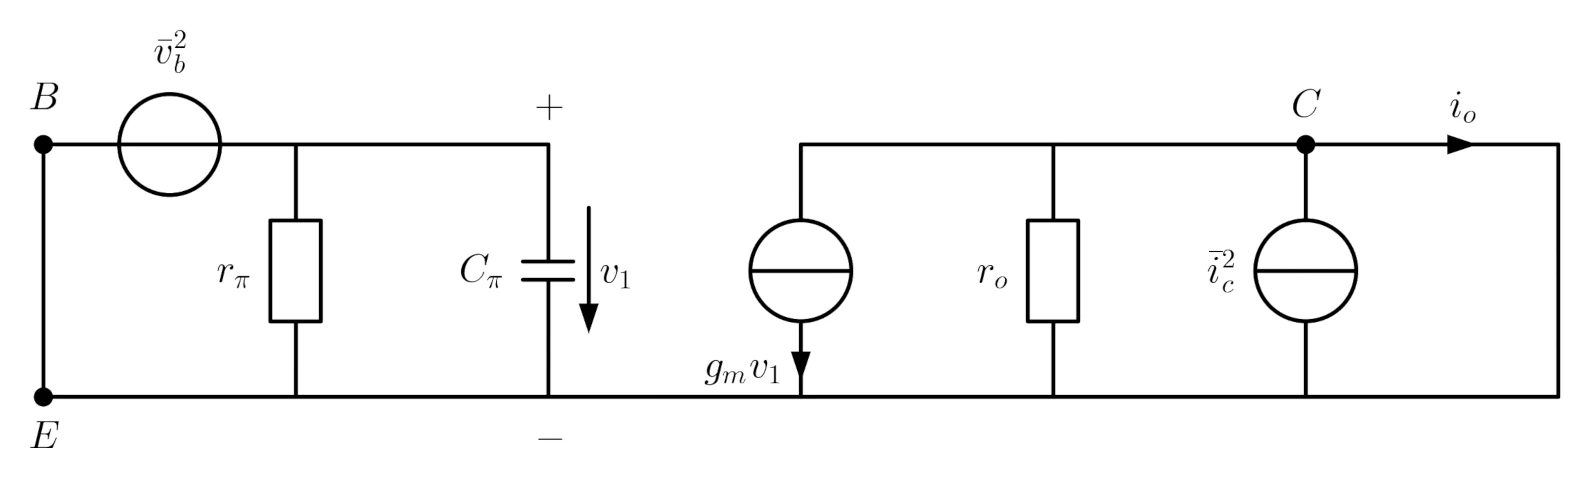
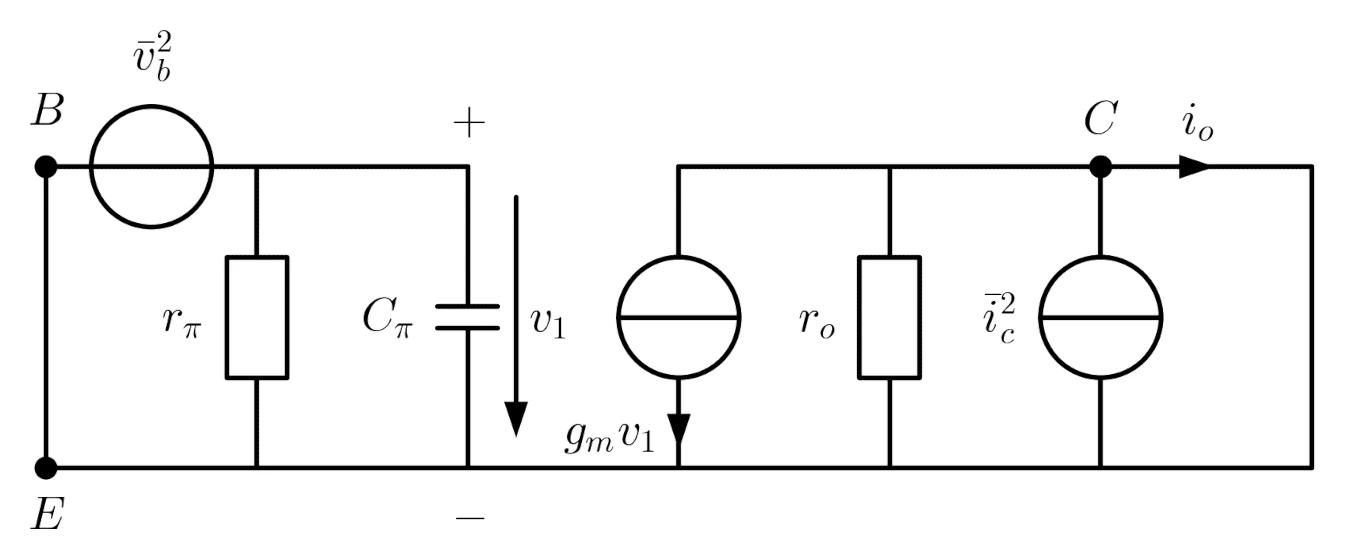
mi repaired broken links + added broken overview

diff --git a/assets/documents/schaltung-bjt-herleitung-1.py b/assets/documents/schaltung-bjt-herleitung-1.py
@@ -19,33 +19,35 @@ schemdraw.config(lblofst=0.2, bgcolor='white', lw=1.5)
 elm.CurrentLabelInline.defaults['headwidth'] = 0.2
 elm.style(elm.STYLE_IEC)
 
+factor=0.7
+
 with schemdraw.Drawing(show=True) as d:
     d.config(unit=2.5)
-    Vs = celm.EUSourceV().right().label(r"$\bar{v}^2_b$")
+    Vs = celm.EUSourceV().right(d.unit*factor).label(r"$\bar{v}^2_b$")
     Rb = elm.Resistor().down().label(r"$r_\pi$")
-    elm.Line().left().dot()
+    elm.Line().left(d.unit*factor).dot()
     elm.Line().up().dot().label(r"$E$", loc="left").label(r"$B$", loc="right")
     
-    elm.Line().at(Vs.end).right()
+    elm.Line().at(Vs.end).right(d.unit*factor)
     C = elm.Capacitor().down().label(r"$C_\pi$").label(r"$+$", loc="right").label(r"$-$", loc="left")
     elm.CurrentLabel().at(C).label(r"$v_1$")
-    elm.Line().left()
+    elm.Line().left(d.unit*factor)
     
-    elm.Line().at(C.end).right()
+    elm.Line().at(C.end).right(d.unit*factor)
     
     Is = celm.EUSourceI().up()
     elm.CurrentLabelInline('out').at(Is).label(r"$g_m v_1$")
     
-    elm.Line().right()
+    elm.Line().right(d.unit*factor)
     Ro = elm.Resistor().down().label(r"$r_o$").hold()
-    elm.Line().right().dot()
+    elm.Line().right(d.unit*factor).dot()
     Ic = celm.EUSourceI().down().label(r"$\bar{i}^2_c$").label(r"$C$", loc="right").hold()
     
-    elm.Line().right()
+    elm.Line().right(d.unit*factor)
     elm.CurrentLabelInline().label(r"$i_o$")
     elm.Line().down()
-    elm.Line().left()
-    elm.Line().left()
-    elm.Line().left()
+    elm.Line().left(d.unit*factor)
+    elm.Line().left(d.unit*factor)
+    elm.Line().left(d.unit*factor)
     
 saveSchemdraw.saveSchematic(d, __file__)

diff --git a/assets/storages/customPyCode/saveSchemdraw.py b/assets/storages/customPyCode/saveSchemdraw.py
@@ -3,17 +3,17 @@ import os
 
 def saveSchematic(element, originFile):
     fileType = ".png"
-    path = os.path.dirname(originFile)
+    filepath = os.path.dirname(originFile)
     name = os.path.basename(originFile).replace(".py","")
     element.save(name+fileType, dpi=300, transparent=False)
-    file = path+os.sep+name+fileType
+    file = filepath+os.sep+name+fileType
     
     # Run GIMP with batch commands
     gimpPath = r"C:\Program Files\GIMP 2\bin\gimp-console-2.10.exe"
     script = (f"from gimpfu import *; \
               image = pdb.gimp_file_load(\\\"{file.replace("\\","\\\\")}\\\", \\\"{file.replace("\\","\\\\")}\\\"); \
               drawable = pdb.gimp_image_get_active_layer(image); \
-              pdb.python_fu_process_graphics(image, drawable, \\\"{path.replace("\\","\\\\")}\\\", \\\"{name.replace("\\","\\\\")}\\\"); \
+              pdb.python_fu_process_graphics(image, drawable, \\\"{filepath.replace("\\","\\\\")}\\\", \\\"{name.replace("\\","\\\\")}\\\"); \
               pdb.gimp_quit(0);")
     
     command = f"\"{gimpPath}\" -i --batch-interpreter=python-fu-eval -b \"{script}\""

diff --git a/assets/documents/schaltung-bjt-herleitung-2.py b/assets/documents/schaltung-bjt-herleitung-2.py
@@ -19,7 +19,7 @@ schemdraw.config(lblofst=0.2, bgcolor='white', lw=1.5)
 elm.CurrentLabelInline.defaults['headwidth'] = 0.2
 elm.style(elm.STYLE_IEC)
 
-factor=0.6
+factor=0.7
 
 with schemdraw.Drawing(show=True) as d:
     d.config(unit=2.5)
@@ -53,4 +53,4 @@ with schemdraw.Drawing(show=True) as d:
     elm.Line().left(d.unit*factor)
     
     
-#saveSchemdraw.saveSchematic(d, __file__)
+saveSchemdraw.saveSchematic(d, __file__)

diff --git a/pages/schaltungstechnik.md b/pages/schaltungstechnik.md
@@ -504,6 +504,7 @@ alias:: ST, schaltungstechnik lva
 		- ${}\bar{v_{b}}^2=4kTr_{b}\Delta f$
 		  tags:: formel, [[rauschen]], [[BJT]], wip
 		  bezeichnung:: Spannungsquadrat des Rauschgenerators an der [[Basis]] eines [[BJT]] im [[kleinsignal]] [[ersatzschaltbild]] ([[thermisches rauschen]]) [V]
+		  id:: 67595b68-f21a-4b53-857e-73495668e87d
 			- $k$ ... Boltzmannkonstante [J/K]
 			- ${}T$ ... [[Temperatur]] $\mathrm{[K]}$
 			- ${}r_{b}$ ... Basis Widerstand des [[BJT]] im [[kleinsignal]] modell [Ω]
@@ -513,10 +514,11 @@ alias:: ST, schaltungstechnik lva
 	- $\bar{i_{c}}^2$ ... Stromquadrat des Rauschgenerators am [[Kollektor]] eines [[BJT]] im [[kleinsignal]] [[ersatzschaltbild]] $\mathrm{[V]}$
 	  deck:: Uni::Schaltungstechnik_Theorie
 	  tags:: flashcard, [[bipolar transistor]]
-		- ${{}}\bar{i_{c}}^2=2qI_{C}\Delta f$
+		- $\bar{i}_{c}^2=2qI_{C}\Delta f$
+		  id:: 67595b68-be94-4d00-a26f-1910e44d1b75
 		  tags:: formel, [[rauschen]], [[BJT]], wip
-		  bezeichnung:: Stromquadrat des Rauschgenerators am [[Kollektor]] eines [[BJT]] im [[kleinsignal]] [[ersatzschaltbild]] ([[schrot rauschen]]) [V]
-		  collapsed:: true
+		  bezeichnung:: Stromquadrat des Rauschgenerators am [[Kollektor]] eines [[BJT]] im [[kleinsignal]] [[ersatzschaltbild]] ([[schrot rauschen]])
+			- $\bar{i}_{c}^2$ ... Stromquadrat des Rauschgenerators $\mathrm{\left[V\right]}$
 			- $q$ ...  []
 			- ${}I_C$ ... []
 			- $\Delta f$ ... [[bandbreite]] in der die Schaltung betrieben werden soll $\mathrm{[Hz]}$
@@ -627,9 +629,8 @@ alias:: ST, schaltungstechnik lva
 					- $i_o=g_{m}v_{b}+i_{c}=g_{m}v_{i}$
 					- $v_{i}=v_{b}+\frac{i_{c}}{g_{m}}$
 				- $v_{b}$ und $i_{c}$ sind unabhängige generatoren daher
-				  collapsed:: true
 					- $\bar{v_{i}}^2=\bar{v_{b}}^2+\frac{\bar{i_{c}}^2} {g_{m}^2}$
-				- jetzt werden ((66730db4-b890-499c-9dc8-565d9ab86164)) und ((66730f82-8ebf-44b4-8dc1-c6ffb19cfd68)) eingesetzt
+				- jetzt werden ((67595b68-f21a-4b53-857e-73495668e87d)) und ((67595b68-be94-4d00-a26f-1910e44d1b75)) eingesetzt
 					- $v_{i}^2=4kTr_{b}\Delta f+\frac{2qI_{C}\Delta f}{g_{m}^2}$
 					- $\frac{v_{i}^2}{\Delta f}=4kT\left(r_{b}+\frac{qI_{C}}{2kTg_{m}^2}\right)$
 					  collapsed:: true
@@ -838,10 +839,11 @@ alias:: ST, schaltungstechnik lva
 			  tags:: formel, test
 			  bezeichnung:: ein test um zu sehen wie das ausschaut wenn man terme mit referenzen anschreibt
 			- $2qI\Delta f$
-			  tags:: formel, [[rauschen]], wip
-			  bezeichnung:: $\bar{i}^2=$ Stromquadrat des Rauschgenerators aufgrund von [[schrot rauschen]] [A²]
 			  id:: 667b0f07-887e-4fbc-8f69-76f7b0dee63f
+			  tags:: formel, [[rauschen]], wip
+			  bezeichnung:: Stromquadrat des Rauschgenerators aufgrund von [[schrot rauschen]]
 			  collapsed:: true
+				- $\bar{i}^2$ ... Stromquadrat des Rauschgenerators aufgrund von [[schrot rauschen]] $\mathrm{\left[A^2\right]}$
 				- $q$ ...  []
 				- $I$ ... relevanter strom $\mathrm{[A]}$
 				- $\Delta f$ ... [[bandbreite]] in der die Schaltung betrieben werden soll $\mathrm{[Hz]}$

diff --git a/pages/automatisierungstechnik.md b/pages/automatisierungstechnik.md
@@ -393,14 +393,15 @@ alias:: automatisierung, automatisierungs
 	  tags:: flashcard, grundlagen
 	  id:: 670b86ba-d750-4530-be16-b35b2ad26db7
 	  collapsed:: true
-		- ((6717bedf-9586-4607-a3d4-5211a81e6421))
-		  collapsed:: true
-		- das folgt aus dem exponential lösungsansatz für [diese](((670d3663-38e7-4891-a2e8-7ae2cf96c68a)))
-		  $\dot{\mathbf{x}}=\mathbf{A}\mathbf{x}~,\qquad\mathbf{x}(t_{0})=\mathbf{x}_{0}$
+		- ((67595b69-3c1d-43c3-b710-375f4dec56e4))
+		  id:: 67595b46-0bc5-4384-a4e3-1df1bc030227
+		- das folgt aus dem exponential lösungsansatz für diese
+		  $\dot {\mathbf{x}} = \mathbf{A}\mathbf{x}~,\qquad\mathbf{x}(t_{0}) = \mathbf{x}_{0}$
 		  [[differentialgleichung]].
 		- das heißt die [[transitionsmatrix]] ist die lösung der dgl
 		- skript
 		  collapsed:: true
+			- ((670d3663-38e7-4891-a2e8-7ae2cf96c68a))
 			- ((6707f767-f6a9-4d62-ae9c-86f991f58961))
 			- ((6707f738-87ae-421f-84a1-bf6003713cb4))
 	- welche wichtigen eigenschaften hat die [[transitionsmatrix]]

diff --git a/pages/naturkonstanten.md b/pages/naturkonstanten.md
@@ -5,8 +5,8 @@ template-used:: standard-page
 tags:: [[uni]] 
 alias:: konstanten, constants
 
-- ((6734c4a0-0bc0-452c-a33f-bcf1d8de32da))
-- ((6734c602-a4f5-4ca4-80b7-f85dbd4c18c8))
+- ((67403e6e-6727-48b1-a844-64fcf2c30521))
+- ((67403e6f-2a7f-4aec-8c79-829be01340e3))
 - $c_0$ ... lichtgeschwindigkeit in vakuum $=  2.997924580 \cdot 10^8 \mathrm{\left[ \frac{m}{s} \right]}$
 - $k_B$ ... boltzmann konstante $= 1.38065 \cdot 10^{-23}\mathrm{\left[ \frac{J}{K} \right]}$
 - $\eta_0$ ... [[wellenwiderstand]] des leeren raumes $\approx 377 \mathrm{\left[ \Omega \right]}$

diff --git a/pages/transition matrizes.md b/pages/transition matrizes.md
@@ -8,6 +8,7 @@ alias:: transitionsmatrix, transitionsmatrizen, transition matrix
 - $\mathbf{\Phi}(t) = \exp(\mathbf{A}t) = \left(\sum_{k=0}^{\infty}\mathbf{A}^{k}\frac{t^{k}}{k!}\right)$
   tags:: formel, transitionsmatrix
   bezeichnung:: definition der [[transitionsmatrix]]
+  id:: 67595b69-3c1d-43c3-b710-375f4dec56e4
 	- $\Phi(t)$ ... [[transitionsmatrix]]
 	- $t$ ... zeit
 	- $\mathbf{A}$ ... [[Systemmatrix]] eines [[linearen]], [[autonomen]] systems

diff --git a/pages/elektrotechnik 2.md b/pages/elektrotechnik 2.md
@@ -28,5 +28,5 @@ alias:: et2
   bezeichnung:: Flussdichte in Permanentmagneten
 	- $B_M$ ... Flussdichte in Permanentmagneten $\mathrm{\left[ T \right]}$
 	- $B_{r}$ ... Remanenzflussdichte $\mathrm{\left[ T \right]}$
-	- ((6734c602-a4f5-4ca4-80b7-f85dbd4c18c8))
+	- ((67403e6f-2a7f-4aec-8c79-829be01340e3))
 	- $H_{m}$ ... magnetische Feldstärke im Magneten $\mathrm{\left[ Am \right]}$

diff --git a/pages/elektrotechnik 1.md b/pages/elektrotechnik 1.md
@@ -63,4 +63,4 @@ alias:: et1
   tags:: formel
   bezeichnung:: [[permittivität]] in materie
 	- $\varepsilon_r$ ... relative [[permittivität]] $\mathbf{[-]}$
-	- ((6734c4a0-0bc0-452c-a33f-bcf1d8de32da))
+	- ((67403e6e-6727-48b1-a844-64fcf2c30521))

diff --git a/pages/broken references.md b/pages/broken references.md
@@ -1,0 +1,9 @@
+- #+BEGIN_QUERY 
+  {:title "Broken References"
+  :query [:find (pull ?b [*])
+  		:where
+  		[?b :block/refs ?t]
+  		[(missing? $ ?t :block/name)]
+  		[(missing? $ ?t :block/content)]]
+  }
+  #+END_QUERY
